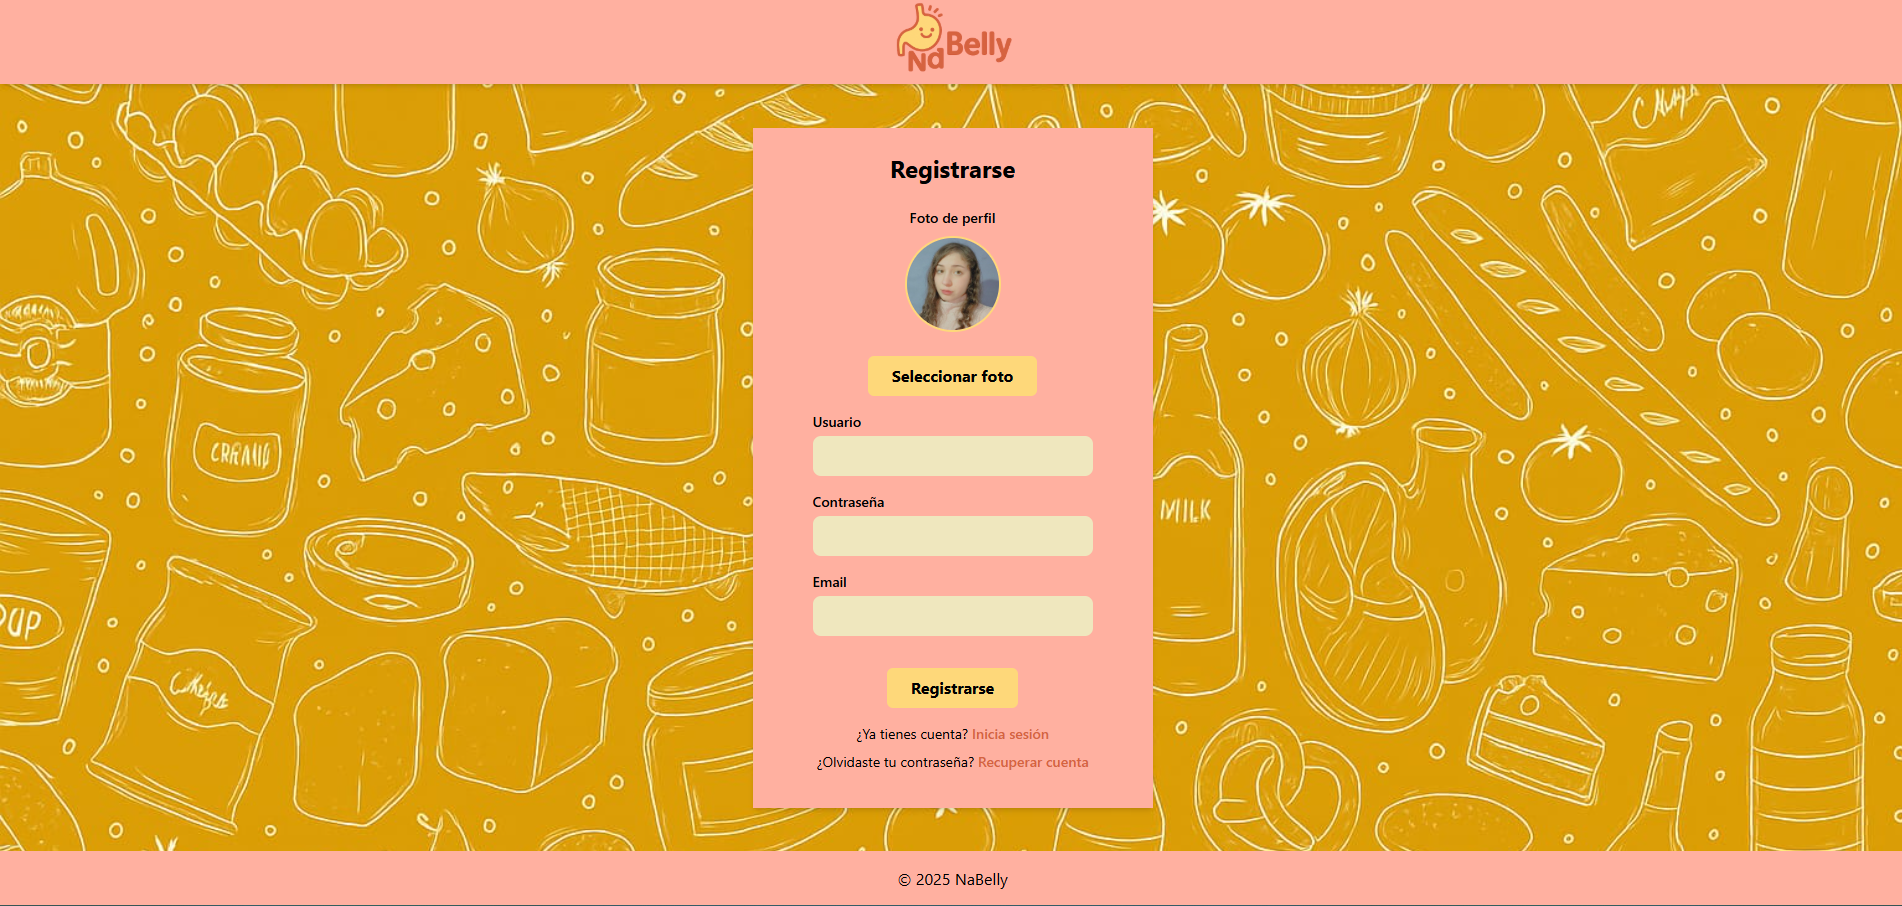
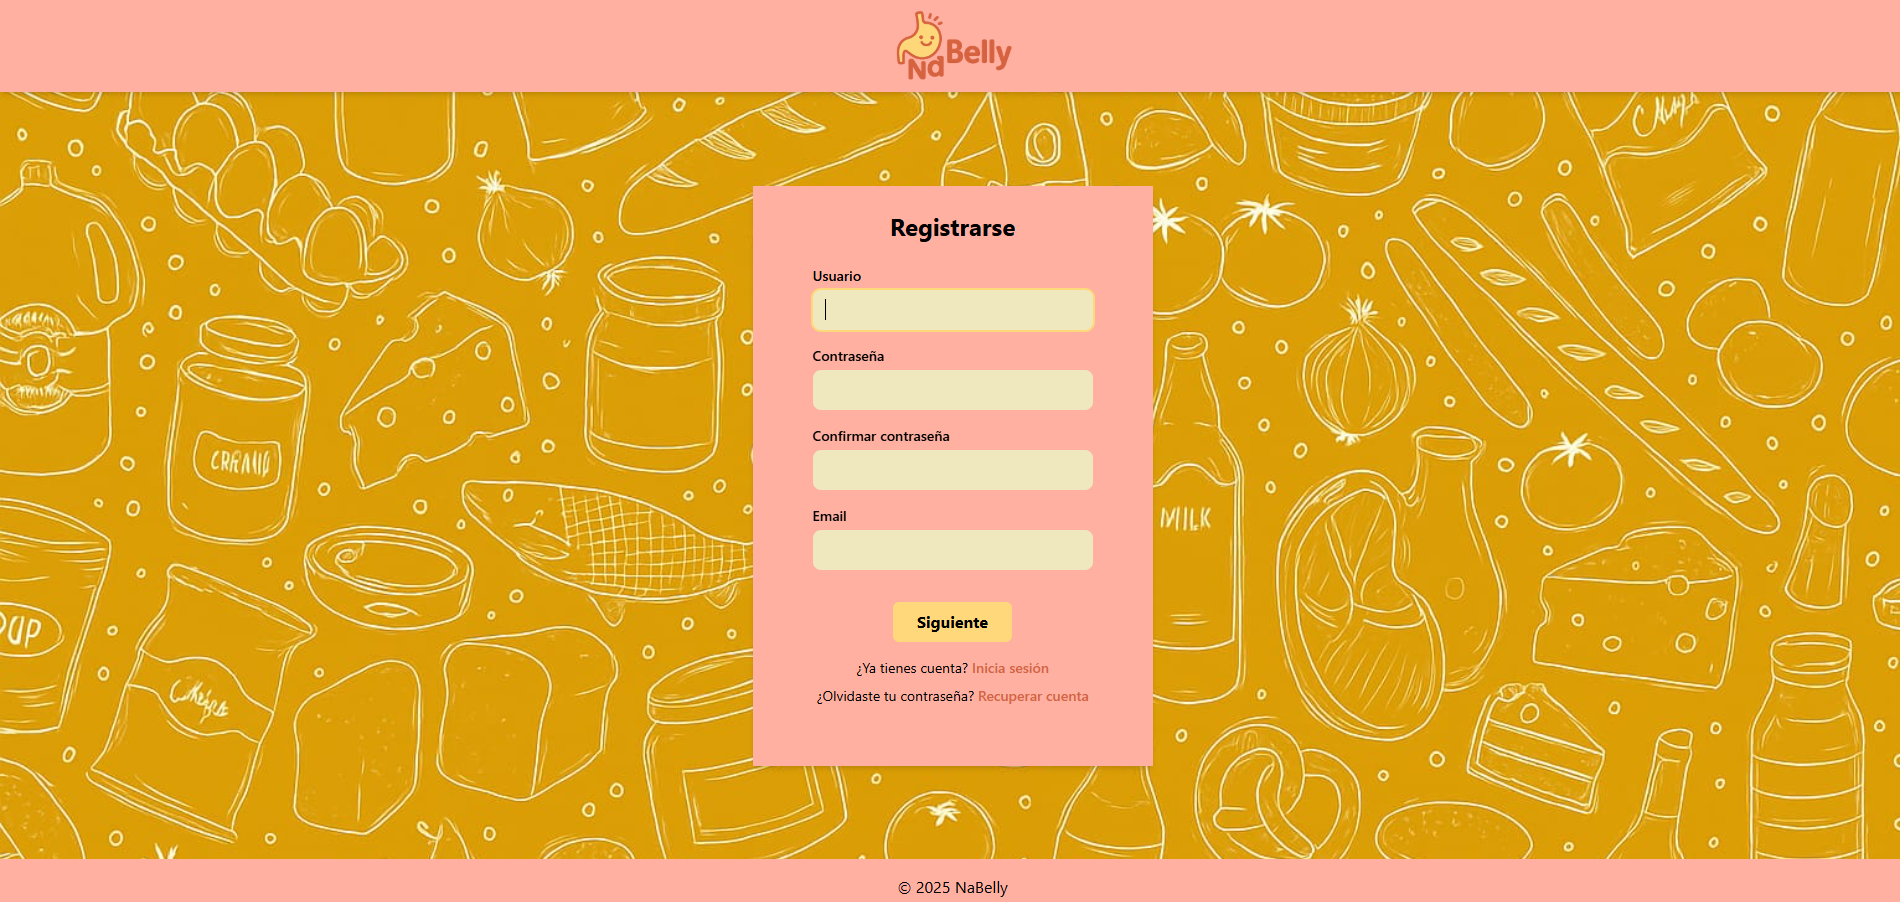
2 pasos registro, preparación service envio de datos al backend

Changed region(s): [[0.0, 0.0, 1.0, 1.0]]

diff --git a/nabelly-frontend/src/app/pages/auth-sign-up/auth-sign-up.html b/nabelly-frontend/src/app/pages/auth-sign-up/auth-sign-up.html
@@ -3,57 +3,79 @@
   <img src="assets/img-background.jpeg" alt="img-login"
        class="w-full h-full object-cover">
 
-  <div class="bg-pink-custom w-[300px] md:w-[400px] h-[550px] md:h-[680px] z-10 absolute top-1/2 
-      left-1/2 -translate-x-1/2 -translate-y-1/2 flex flex flex-col items-center justify-star shadow-md mt-6">
+  <div class="bg-pink-custom z-10 absolute top-1/2 left-1/2 -translate-x-1/2 -translate-y-1/2 flex flex-col items-center justify-star shadow-md mt-6 w-[300px] md:w-[400px]"
+     [ngClass]="{
+       'h-[560px] md:h-[580px]': step === 1,
+       'h-[410px] md:h-[410px]': step === 2
+     }"
+     style=" transition: all 0.15s ease;">
 
-    <h2 class="text-xl md:text-2xl font-bold mb-6 mt-6 w-full text-center">Registrarse</h2>
-    <form (ngSubmit)="onSubmit()" class="flex flex-col items-center w-full">
+      <h2 class="text-xl md:text-2xl font-bold mb-6 mt-6 w-full text-center">Registrarse</h2>
+      <form (ngSubmit)="onSubmit()" class="flex flex-col items-center w-full">
 
-        <!-- Contenedor de la foto -->
-        <div class="w-[70%] mb-4 flex flex-col items-center">
-            <label class="block text-sm font-medium mb-2">Foto de perfil</label>
-
-            <!-- Previsualización -->
-            <div class="w-24 h-24 mb-2 rounded-full overflow-hidden border-2 border-yellow-custom">
-                <img *ngIf="previewUrl" [src]="previewUrl" alt="Previsualización" class="w-full h-full object-cover">
-                <div *ngIf="!previewUrl" class="w-full h-full flex items-center justify-center bg-light-yellow-custom text-gray-500 text-2xl cursor-pointer"
-                    (click)="fileInput.click()">
-                    +
-                </div>
+         <div *ngIf="step === 1" class="w-full flex flex-col items-center">
+            <div class="w-[70%] mb-4">
+              <label for="username" class="block text-sm font-medium mb-1">Usuario</label>
+              <input type="text" id="username" name="username" [(ngModel)]="username"
+              class="w-full px-3 py-2 border-light-yellow-custom rounded-lg focus:outline-none focus:ring-2 
+              focus:ring-yellow-custom bg-light-yellow-custom">
             </div>
 
-            <!-- Botón personalizado -->
-            <button type="button" class="bg-yellow-custom mt-4 px-6 py-2 rounded-md hover:#f8cc6d"
-            (click)="fileInput.click()">
-            Seleccionar foto
-            </button>
+            <div class="w-[70%] mb-4">
+              <label for="password" class="block text-sm font-medium mb-1">Contraseña</label>
+              <input type="password" id="password" name="password" [(ngModel)]="password"
+              class="w-full px-3 py-2 border-light-yellow-custom rounded-lg 
+              focus:outline-none focus:ring-2 focus:ring-yellow-custom bg-light-yellow-custom">
+            </div>
 
-            <!-- Input oculto -->
-            <input #fileInput type="file" accept="image/*" (change)="onFileSelected($event)" class="hidden">
+            <div class="w-[70%] mb-4">
+              <label for="confPassword" class="block text-sm font-medium mb-1">Confirmar contraseña</label>
+              <input type="password" id="confPassword" name="confPassword" [(ngModel)]="confPassword"
+              class="w-full px-3 py-2 border-light-yellow-custom rounded-lg 
+              focus:outline-none focus:ring-2 focus:ring-yellow-custom bg-light-yellow-custom">
+            </div>
+
+            <div class="w-[70%] mb-4">
+              <label for="email" class="block text-sm font-medium mb-1">Email</label>
+              <input type="text" id="email" name="email" [(ngModel)]="email"
+              class="w-full px-3 py-2 border-light-yellow-custom rounded-lg 
+              focus:outline-none focus:ring-2 focus:ring-yellow-custom bg-light-yellow-custom">
+            </div>
+
+          <!-- Botón Siguiente -->
+          <button type="button" class="bg-yellow-custom mt-4 px-6 py-2 rounded-md" (click)="nextStep()">Siguiente</button>
         </div>
 
-      <div class="w-[70%] mb-4">
-        <label for="username" class="block text-sm font-medium mb-1">Usuario</label>
-        <input type="text" id="username" name="username" [(ngModel)]="username"
-            class="w-full px-3 py-2 border-light-yellow-custom rounded-lg focus:outline-none focus:ring-2 
-            focus:ring-yellow-custom bg-light-yellow-custom">
-      </div>
+        <div *ngIf="step === 2" class="w-full flex flex-col items-center">
+          <!-- Contenedor de la foto --> 
+          <div class="w-[70%] mb-4 flex flex-col items-center"> 
+            <label class="block text-sm font-medium mb-2">Foto de perfil</label> 
+            <!-- Previsualización --> 
+            <div class="w-24 h-24 mb-2 rounded-full overflow-hidden border-2 border-yellow-custom"> 
+              <img 
+                *ngIf="previewUrl" 
+                [src]="previewUrl" 
+                alt="Previsualización" 
+                class="w-full h-full object-cover cursor-pointer"
+                (click)="fileInput.click()"
+              >  
+                 <div *ngIf="!previewUrl" class="w-full h-full flex items-center justify-center bg-light-yellow-custom text-gray-500 text-2xl cursor-pointer" (click)="fileInput.click()"> 
+                 +    
+                 </div> 
+            </div> 
+          
+            <!-- Input oculto --> 
+            <input #fileInput type="file" accept="image/*" (change)="onFileSelected($event)" class="hidden"> 
+          </div>
 
-      <div class="w-[70%] mb-4">
-        <label for="password" class="block text-sm font-medium mb-1">Contraseña</label>
-        <input type="password" id="password" name="password" [(ngModel)]="password"
-           class="w-full px-3 py-2 border-light-yellow-custom rounded-lg 
-           focus:outline-none focus:ring-2 focus:ring-yellow-custom bg-light-yellow-custom">
-      </div>
-      <div class="w-[70%] mb-4">
-        <label for="password" class="block text-sm font-medium mb-1">Email</label>
-        <input type="text" id="email" name="email" [(ngModel)]="email"
-           class="w-full px-3 py-2 border-light-yellow-custom rounded-lg 
-           focus:outline-none focus:ring-2 focus:ring-yellow-custom bg-light-yellow-custom">
-      </div>
-
-    <button type="submit" class="bg-yellow-custom mt-4 px-6 py-2 rounded-md">Registrarse</button>
-  </form>
+          <!-- Botones navegación -->
+          <div class="flex justify-between w-[82%] md:w-[60%] mt-4">
+            <button type="button" class="bg-yellow-custom px-6 py-2 rounded-md" (click)="prevStep()">Anterior</button>
+            <button type="submit" class="bg-yellow-custom px-6 py-2 rounded-md">Registrar</button>
+          </div>
+        </div>
+      
+    </form>
 
     <p class="text-sm mt-4">
       ¿Ya tienes cuenta?

diff --git a/nabelly-frontend/src/app/pages/auth-sign-up/auth-sign-up.ts b/nabelly-frontend/src/app/pages/auth-sign-up/auth-sign-up.ts
@@ -13,44 +13,78 @@ import { CommonModule } from '@angular/common';
   styleUrl: './auth-sign-up.css'
 })
 export class AuthSignUp {
+  foto: File | null = null;
   username: string = '';
   password: string = '';
+  confPassword: string = '';
   email: string = '';
+  
 
   previewUrl: string | ArrayBuffer | null = null;
 
+  step: number = 1; 
+
   onFileSelected(event: Event) {
-  const file = (event.target as HTMLInputElement).files?.[0];
-  if (file) {
-    const reader = new FileReader();
-    reader.onload = () => {
-      this.previewUrl = reader.result; // Guarda la previsualización
-    };
-    reader.readAsDataURL(file);
+    const input = event.target as HTMLInputElement;
+    const file = (event.target as HTMLInputElement).files?.[0];
+    if (file) {
+      this.foto = file;
+      const reader = new FileReader();
+      reader.onload = () => {
+        this.previewUrl = reader.result; // Guarda la previsualización
+      };
+      reader.readAsDataURL(file);
+      }
+      input.value = '';
     }
+
+   nextStep() { 
+    // Validar campos del paso 1 antes de pasar al paso 2
+    if (!this.username || !this.email || !this.password || !this.confPassword) {
+      alert('Completa todos los campos');
+      return;
+    }
+    if (this.password !== this.confPassword) {
+      alert('Las contraseñas no coinciden');
+      return;
+    }
+    this.step = 2;
   }
 
-  isMobile = false;
-  step = 1; // Paso actual del formulario
-
-  constructor() {
-    this.checkScreen();
+  prevStep() { 
+    this.step = 1;
   }
 
-  @HostListener('window:resize')
-  checkScreen() {
-    this.isMobile = window.innerWidth < 768; // por ej. < md
+  constructor(private authService: AuthService, private router: Router) {
+
   }
 
-  nextStep() {
-    this.step++;
-  }
-
-  prevStep() {
-    this.step--;
-  }
 
   onSubmit() {
+
+    if (this.password !== this.confPassword) { console.error("Las contraseñas no coinciden"); return; }
+
+    // Si no subió foto, asignar la predeterminada
+    const fotoAEnviar = this.foto ?? new File([], 'assets/user.png');
+
+    this.authService.signup({foto: this.foto, username: this.username,password: this.password,email: this.email})
+    .subscribe({
+        next: (res) => { 
+          console.log('JWT recibido:', res.token);
+          
+          sessionStorage.setItem('token', res.token);
+
+          this.router.navigate(['/inicio']);
+
+        },
+        error: (err) => {
+          if (err.status === 404) {
+          alert('Usuario ya existe');
+          } else {
+          alert('Error inesperado');
+        }
+      }
+    });
   }
 
 }

diff --git a/nabelly-frontend/src/app/services/auth-service.ts b/nabelly-frontend/src/app/services/auth-service.ts
@@ -12,6 +12,18 @@ interface LoginResponse {
   role: string;  // tipo de usuario
 }
 
+interface SignupRequest{
+  foto: File | null;
+  username: string;
+  password: string;
+  email: string;
+}
+
+interface SignupResponse {
+  token: string; 
+  role: string;  
+}
+
 @Injectable({
   providedIn: 'root'
 })
@@ -24,4 +36,17 @@ export class AuthService {
   login(data: LoginRequest): Observable<LoginResponse> { //necesita lo del login request, espera recibir lo del login response 
     return this.http.post<LoginResponse>(`${this.apiUrl}/login`, data);
   }
+
+  signup(data: SignupRequest): Observable<SignupResponse> { //formdata porque hay un file, no se puede convertir a json
+  const formData = new FormData();
+
+  if (data.foto) {
+    formData.append("foto", data.foto);
+  }
+  formData.append("username", data.username);
+  formData.append("password", data.password);
+  formData.append("email", data.email);
+
+  return this.http.post<SignupResponse>(`${this.apiUrl}/signup`, formData);
+}
 }

diff --git a/README.md b/README.md
@@ -21,5 +21,6 @@
 <div style="text-align: center;">
   <img src="./images/Login.png" alt="Foto 1" width="46%" style="margin-right:5%; margin-bottom:10px;" />
   <img src="./images/SignUp.png" alt="Foto 2" width="46%" style="margin-bottom:10px;" />
+  <img src="./images/SignUp2.png" alt="Foto 3" width="46%" style="margin-bottom:10px;" />
 </div>
 
